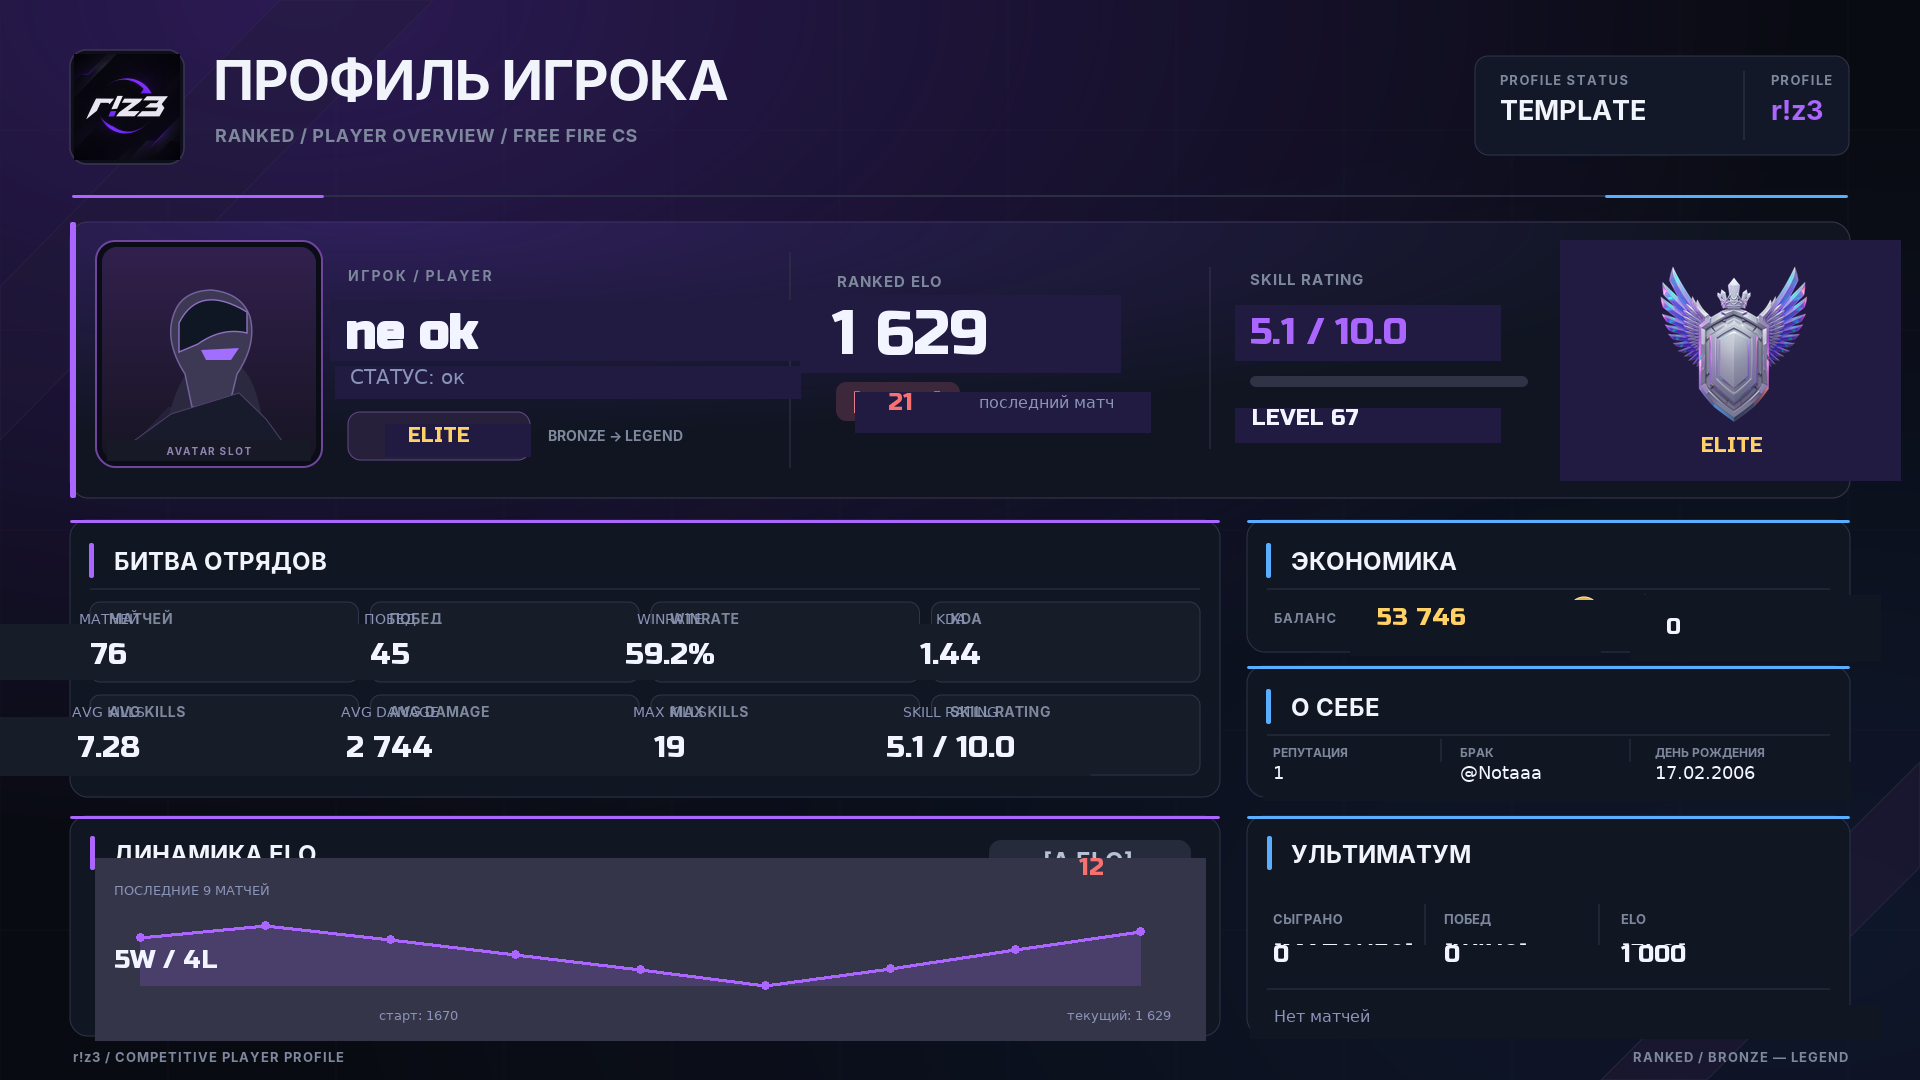
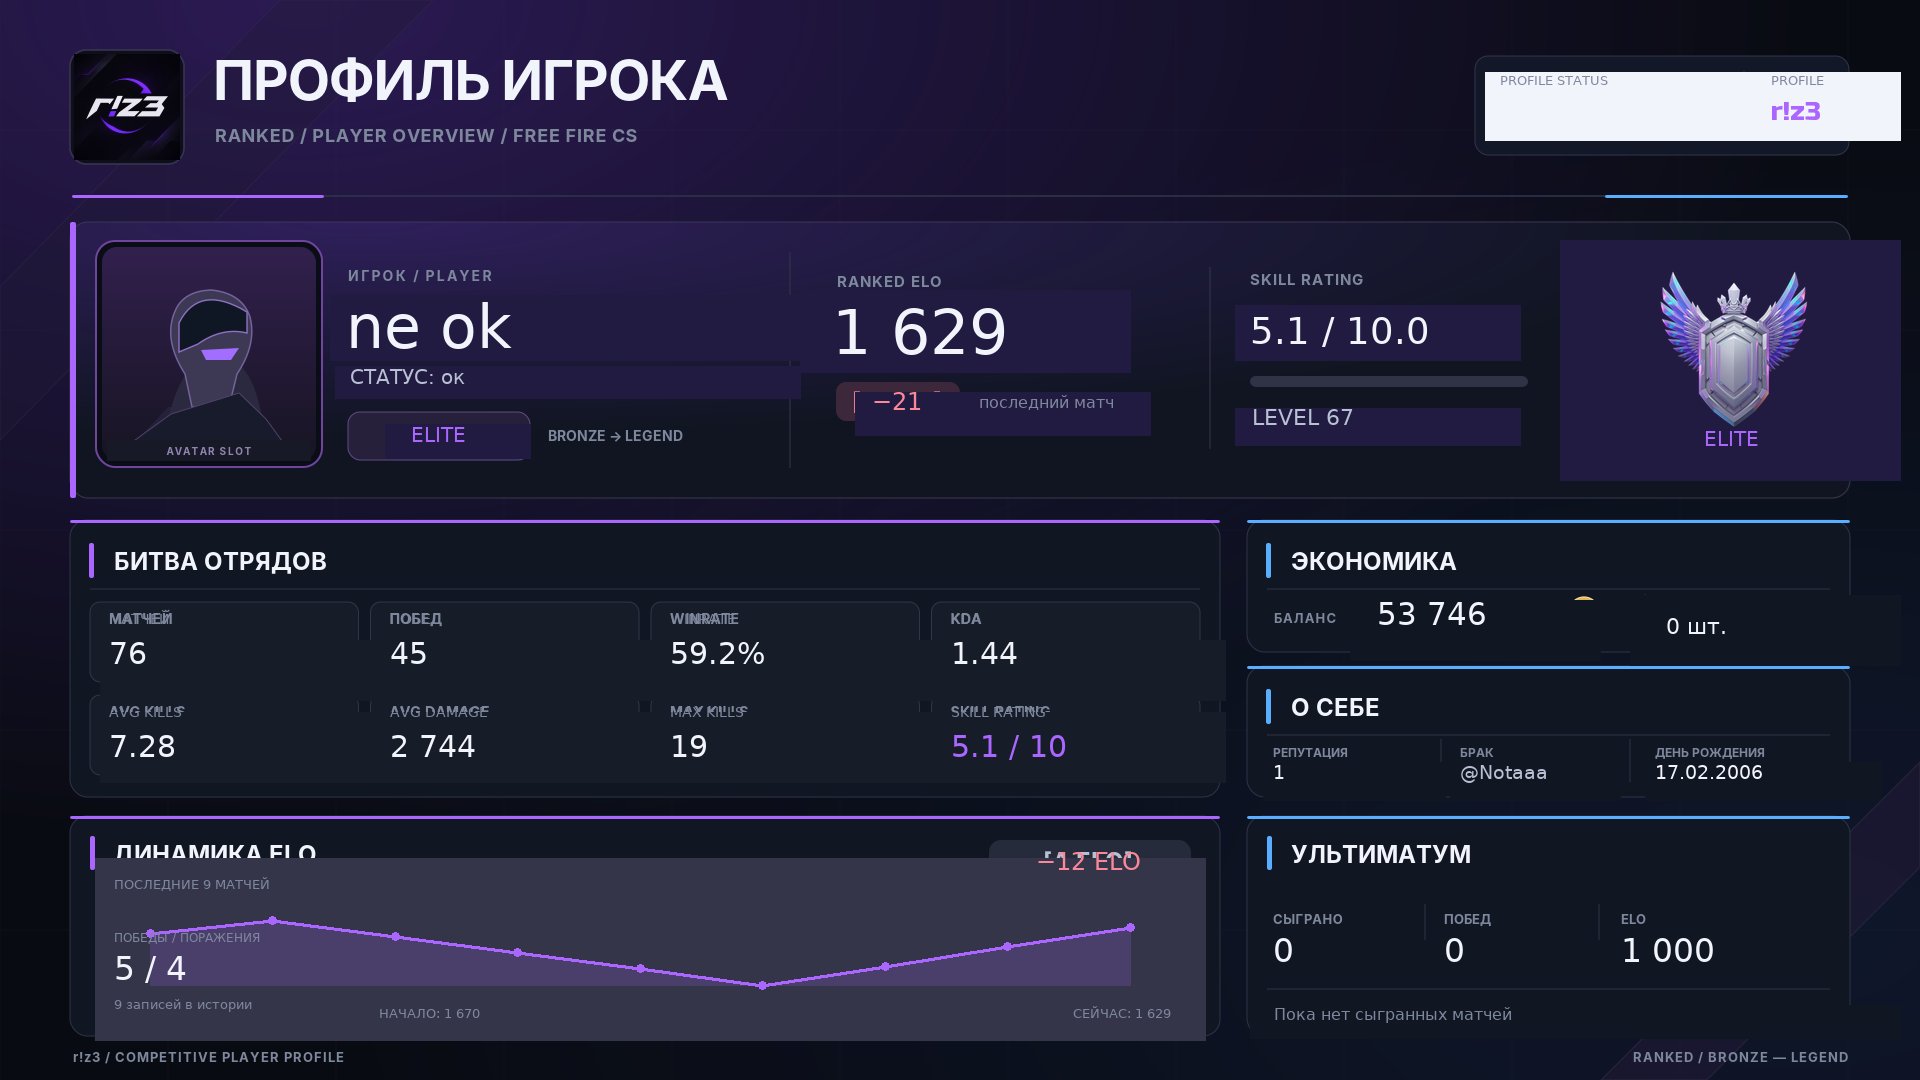
Fix profile card layout: match example SVG coordinates/styles
- Squad stat values left-aligned at label x (were centered -> drift)
- Correct font sizes (username 60, balance 31, ult values 33)
- Colors per example: rank/tier violet, SR white, delta #FA8899/green
- Chart block rewritten: W/L labels, НАЧАЛО/СЕЙЧАС axis, "N записей"
- Header right block, "N шт." items suffix, ult zero-state text

Generated with [Devin](https://devin.ai)

diff --git a/utils/profile_renderer.py b/utils/profile_renderer.py
@@ -2,7 +2,7 @@
 
 Использует чистый template PNG как подложку: динамические области
 затираются цветом панели, поверх рисуются актуальные данные.
-Все координаты соответствуют riz3_player_profile_template.svg.
+Все координаты/якоря/кегли соответствуют riz3_player_profile_example.svg.
 """
 
 from __future__ import annotations
@@ -22,14 +22,13 @@ FONTS_DIR = ASSETS_DIR / "fonts"
 
 CARD_RENDER_SEM = asyncio.Semaphore(2)
 
-# Цвета дизайна
-C_TEXT = (242, 244, 255)
-C_MUTED = (138, 147, 184)
-C_VIOLET = (170, 102, 255)
+# Цвета из example.svg
+C_TEXT = (242, 244, 251)     # #F2F4FB
+C_MUTED = (126, 136, 157)   # #7E889D
+C_SOFT = (184, 193, 211)    # #B8C1D3
+C_VIOLET = (170, 102, 255)  # #AA66FF
+C_DELTA_NEG = (250, 136, 153)  # #FA8899
 C_GREEN = (74, 222, 128)
-C_RED = (248, 113, 113)
-C_GOLD = (255, 209, 102)
-C_PANEL_TOP = None  # сэмплируется из template
 
 _font_cache: dict[tuple[str, int], ImageFont.FreeTypeFont] = {}
 _base_cache: Image.Image | None = None
@@ -53,32 +52,27 @@ def _base() -> Image.Image:
     return _base_cache.copy()
 
 
-def _panel_color(img: Image.Image, x: int, y: int) -> tuple[int, int, int, int]:
-    return img.getpixel((x, y))
-
-
 def _erase(img: Image.Image, color, x1, y1, x2, y2) -> None:
     ImageDraw.Draw(img).rectangle([x1, y1, x2, y2], fill=color)
 
 
 def _text(draw: ImageDraw.ImageDraw, xy, s: str, size: int,
-          color=C_TEXT, anchor="ls", bold=False, stroke: int = 0) -> None:
+          color=C_TEXT, anchor="ls", bold=False) -> None:
+    """anchor — PIL-якорь; 's' = baseline (как y в SVG)."""
     font = _font(size, bold)
-    draw.text(xy, s, font=font, fill=color, anchor=anchor,
-              stroke_width=stroke, stroke_fill=color)
+    draw.text(xy, s, font=font, fill=color, anchor=anchor)
 
 
-def _fmt(n: float) -> str:
-    """Формат числа с разделителем тысяч."""
-    if isinstance(n, float):
-        s = f"{n:.2f}".rstrip("0").rstrip(".")
-        return s
-    return f"{int(n):,}".replace(",", " ")
+def _fmt(n) -> str:
+    """Целое число с разделителем тысяч пробелом."""
+    try:
+        return f"{int(round(float(n))):,}".replace(",", " ")
+    except (TypeError, ValueError):
+        return "0"
 
 
 def _fit_text(draw, s: str, max_w: int, size: int, bold=False,
               min_size: int = 14) -> tuple[str, int]:
-    """Ужать текст до max_w, уменьшая кегль."""
     font = _font(size, bold)
     while size > min_size and draw.textlength(s, font=font) > max_w:
         size -= 2
@@ -97,50 +91,54 @@ def render_profile_png(data: dict, avatar_png: bytes | None = None,
     draw = ImageDraw.Draw(img)
 
     # --- Цвета панелей (сэмпл из template) ---
-    c_top = _panel_color(img, 700, 300)
-    c_stats = _panel_color(img, 600, 620)
-    c_econ = _panel_color(img, 1400, 600)
-    c_about = _panel_color(img, 1400, 720)
-    c_chart = _panel_color(img, 600, 950)
-    c_ult = _panel_color(img, 1400, 950)
+    c_top = img.getpixel((700, 300))
+    c_head = img.getpixel((1600, 100))
+    c_stats = img.getpixel((600, 620))
+    c_econ = img.getpixel((1400, 600))
+    c_about = img.getpixel((1400, 720))
+    c_chart = img.getpixel((600, 950))
+    c_ult = img.getpixel((1400, 950))
+
+    # ============ ШАПКА (справа) ============
+    _erase(img, c_head, 1485, 72, 1900, 140)
+    _text(draw, (1500, 85), "PROFILE STATUS", 13, C_MUTED)
+    _text(draw, (1500, 120), "ACTIVE PLAYER", 27, C_TEXT, bold=True)
+    _text(draw, (1771, 85), "PROFILE", 13, C_MUTED)
+    _text(draw, (1771, 120), "r!z3", 27, C_VIOLET, bold=True)
 
     # ============ ВЕРХНЯЯ ПАНЕЛЬ ============
-    # Никнейм
-    _erase(img, c_top, 330, 300, 980, 360)
+    # Никнейм (fs60 в example)
+    _erase(img, c_top, 330, 295, 1100, 360)
     name = data.get("name") or "Игрок"
-    nstr, nsize = _fit_text(draw, name, 620, 48, bold=True, min_size=24)
-    _text(draw, (346, 348), nstr, nsize, C_TEXT, bold=True, stroke=1)
+    nstr, nsize = _fit_text(draw, name, 720, 60, min_size=26)
+    _text(draw, (346, 348), nstr, nsize, C_TEXT)
 
     # Статус
     _erase(img, c_top, 335, 366, 800, 398)
-    status = data.get("status") or "ок"
-    _text(draw, (350, 384), f"СТАТУС: {status}", 20, C_MUTED)
+    _text(draw, (350, 384), f"СТАТУС: {data.get('status') or 'ок'}", 20, C_SOFT)
 
-    # Ранг (имя) — узкая зона, чтобы не затереть подпись "BRONZE → LEGEND"
-    _erase(img, c_top, 385, 424, 530, 456)
-    rank_name = data.get("rank_name") or "Bronze"
-    _text(draw, (439, 442), rank_name.upper(), 20, C_GOLD, anchor="ms",
-          bold=True)
+    # Ранг — violet, по центру x=439 (baseline)
+    _erase(img, c_top, 385, 424, 530, 458)
+    _text(draw, (439, 442), (data.get("rank_name") or "BRONZE").upper(),
+          20, C_VIOLET, anchor="ms")
 
-    # ELO
-    _erase(img, c_top, 800, 295, 1120, 372)
-    _text(draw, (832, 354), _fmt(data.get("elo", 1000)), 62, C_TEXT, bold=True)
+    # RANKED ELO
+    _erase(img, c_top, 800, 290, 1130, 372)
+    _text(draw, (832, 354), _fmt(data.get("elo", 1000)), 62, C_TEXT)
     # Δ ELO последнего матча
-    _erase(img, c_top, 855, 392, 1150, 432)
+    _erase(img, c_top, 855, 392, 1150, 435)
     delta = data.get("last_elo_change", 0)
-    dcolor = C_GREEN if delta >= 0 else C_RED
+    dcolor = C_GREEN if delta >= 0 else C_DELTA_NEG
     dsign = "+" if delta >= 0 else "−"
-    _text(draw, (897, 410), f"{dsign}{abs(delta)}", 24, dcolor, anchor="ms",
-          bold=True)
+    _text(draw, (897, 410), f"{dsign}{abs(delta)}", 24, dcolor, anchor="ms")
     _text(draw, (979, 408), "последний матч", 16, C_MUTED)
 
     # Skill Rating + Level
-    _erase(img, c_top, 1235, 305, 1500, 360)
+    _erase(img, c_top, 1235, 305, 1520, 360)
     sr = data.get("skill_rating", 0.0)
-    _text(draw, (1250, 344), f"{sr:.1f} / 10.0", 37, C_VIOLET, bold=True)
-    _erase(img, c_top, 1235, 408, 1500, 442)
-    _text(draw, (1252, 425), f"LEVEL {data.get('level', 1)}", 22, C_TEXT,
-          bold=True)
+    _text(draw, (1250, 344), f"{sr:.1f} / 10.0", 37, C_TEXT)
+    _erase(img, c_top, 1235, 408, 1520, 445)
+    _text(draw, (1252, 425), f"LEVEL {data.get('level', 1)}", 22, C_SOFT)
 
     # Бейдж ранга + тир
     _erase(img, c_top, 1560, 240, 1900, 480)
@@ -148,92 +146,95 @@ def render_profile_png(data: dict, avatar_png: bytes | None = None,
         try:
             badge = Image.open(io.BytesIO(badge_png)).convert("RGBA")
             badge.thumbnail((210, 210), Image.LANCZOS)
-            bx = 1734 - badge.width // 2
-            by = 345 - badge.height // 2
-            img.paste(badge, (bx, by), badge)
+            img.paste(badge, (1734 - badge.width // 2,
+                              350 - badge.height // 2), badge)
         except Exception:
             logger.warning("Rank badge paste failed")
-    _text(draw, (1732, 452), rank_name.upper(), 20, C_GOLD, anchor="ms",
-          bold=True)
+    _text(draw, (1732, 446), (data.get("rank_name") or "").upper(),
+          20, C_VIOLET, anchor="ms")
 
     # ============ БИТВА ОТРЯДОВ ============
-    cols_x = [109, 389.5, 670, 950.5]
-    labels1 = ["МАТЧЕЙ", "ПОБЕД", "WINRATE", "KDA"]
-    labels2 = ["AVG KILLS", "AVG DAMAGE", "MAX KILLS", "SKILL RATING"]
-    vals1 = [
-        _fmt(data.get("matches", 0)),
-        _fmt(data.get("wins", 0)),
-        f"{data.get('winrate', 0.0):.1f}%",
-        f"{data.get('kda', 0.0):.2f}",
+    # Значения — LEFT-aligned по x лейбла (как в example), fs30
+    squad_cols = [
+        (109, "МАТЧЕЙ", _fmt(data.get("matches", 0))),
+        (389.5, "ПОБЕД", _fmt(data.get("wins", 0))),
+        (670, "WINRATE", f"{data.get('winrate', 0.0):.1f}%"),
+        (950.5, "KDA", f"{data.get('kda', 0.0):.2f}"),
     ]
-    vals2 = [
-        f"{data.get('avg_kills', 0.0):.2f}",
-        _fmt(data.get("avg_damage", 0)),
-        _fmt(data.get("max_kills", 0)),
-        f"{sr:.1f} / 10.0",
+    squad_cols2 = [
+        (109, "AVG KILLS", f"{data.get('avg_kills', 0.0):.2f}"),
+        (389.5, "AVG DAMAGE", _fmt(data.get("avg_damage", 0))),
+        (670, "MAX KILLS", _fmt(data.get("max_kills", 0))),
+        (950.5, "SKILL RATING", f"{sr:.1f} / 10"),
     ]
-    for cx, lab, val, vy in zip(cols_x, labels1, vals1, [664] * 4):
-        _erase(img, c_stats, cx - 140, vy - 40, cx + 140, vy + 15)
-        _text(draw, (cx, 624), lab, 14, C_MUTED, anchor="ms")
-        _text(draw, (cx, vy), val, 30, C_TEXT, anchor="ms", bold=True)
-    for cx, lab, val in zip(cols_x, labels2, vals2):
-        _erase(img, c_stats, cx - 140, 717, cx + 140, 775)
-        _text(draw, (cx, 717), lab, 14, C_MUTED, anchor="ms")
-        _text(draw, (cx, 757), val, 30, C_TEXT, anchor="ms", bold=True)
+    bounds = [(100, 640, 380, 700), (380, 640, 660, 700),
+              (655, 640, 940, 700), (940, 640, 1225, 700),
+              (100, 712, 380, 782), (380, 712, 660, 782),
+              (655, 712, 940, 782), (940, 712, 1225, 782)]
+    for (x1, y1, x2, y2), (cx, lab, val) in zip(bounds[:4], squad_cols):
+        _erase(img, c_stats, x1, y1, x2, y2)
+        _text(draw, (cx, 624), lab, 14, C_MUTED)
+        color = C_VIOLET if lab == "SKILL RATING" else C_TEXT
+        _text(draw, (cx, 664), val, 30, color)
+    for (x1, y1, x2, y2), (cx, lab, val) in zip(bounds[4:], squad_cols2):
+        _erase(img, c_stats, x1, y1, x2, y2)
+        _text(draw, (cx, 717), lab, 14, C_MUTED)
+        color = C_VIOLET if lab == "SKILL RATING" else C_TEXT
+        _text(draw, (cx, 757), val, 30, color)
 
     # ============ ЭКОНОМИКА ============
-    _erase(img, c_econ, 1350, 600, 1600, 655)
-    _text(draw, (1377, 625), _fmt(data.get("balance", 0)), 25, C_GOLD,
-          bold=True)
-    _erase(img, c_econ, 1630, 595, 1880, 660)
-    _text(draw, (1666, 634), _fmt(data.get("items", 0)), 22, C_TEXT,
-          bold=True)
+    _erase(img, c_econ, 1350, 600, 1600, 660)
+    _text(draw, (1377, 625), _fmt(data.get("balance", 0)), 31, C_TEXT)
+    _erase(img, c_econ, 1630, 595, 1900, 665)
+    _text(draw, (1666, 634), f"{_fmt(data.get('items', 0))} шт.", 22, C_TEXT)
 
     # ============ О СЕБЕ ============
     about = [
-        (1273, "РЕПУТАЦИЯ", _fmt(data.get("reputation", 0))),
-        (1460, "БРАК", data.get("partner") or "—"),
-        (1655, "ДЕНЬ РОЖДЕНИЯ", data.get("birthday") or "—"),
+        (1273, data.get("reputation", 0), C_TEXT),
+        (1460, data.get("partner") or "—", C_SOFT),
+        (1655, data.get("birthday") or "—", C_TEXT),
     ]
-    for x, lab, val in about:
-        _erase(img, c_about, x - 10, 762, x + 195, 800)
-        _text(draw, (x, 779), val, 18, C_TEXT)
+    for i, (x, val, color) in enumerate(about):
+        x2 = [1445, 1620, 1880][i]
+        _erase(img, c_about, x - 10, 762, x2, 800)
+        vstr, vsize = _fit_text(draw, str(val), x2 - x - 10, 19,
+                                min_size=12)
+        _text(draw, (x, 779), vstr, vsize, color)
 
     # ============ ДИНАМИКА ELO ============
     _erase(img, c_chart, 95, 858, 1205, 1040)
-    _text(draw, (114, 895), f"ПОСЛЕДНИЕ {data.get('hist_count', 0)} МАТЧЕЙ",
-          13, C_MUTED)
+    _text(draw, (114, 889),
+          f"ПОСЛЕДНИЕ {data.get('hist_count', 0)} МАТЧЕЙ", 13, C_MUTED)
     total_delta = data.get("chart_delta", 0)
-    td_color = C_GREEN if total_delta >= 0 else C_RED
-    _text(draw, (1088, 875),
-          f"{'+' if total_delta >= 0 else '−'}{abs(total_delta)}",
-          24, td_color, anchor="ms", bold=True)
+    td_color = C_GREEN if total_delta >= 0 else C_DELTA_NEG
+    tdsign = "+" if total_delta >= 0 else "−"
+    _text(draw, (1088, 870), f"{tdsign}{abs(total_delta)} ELO", 24,
+          td_color, anchor="ms")
 
-    # График: область ~x130-1150, y915-985
+    # График: область ~x140-1140, y915-990
     hist = data.get("elo_history") or []  # хронологический список дельт
-    px0, px1, py0, py1 = 140, 1140, 925, 985
-    if len(hist) >= 1:
+    px0, px1, py0, py1 = 150, 1130, 920, 985
+    if hist:
         cum = []
         s = 0
         for d in hist:
             s += d
             cum.append(s)
         if len(cum) == 1:
-            cum = [cum[0], cum[0]]
+            cum.append(cum[0])
         lo, hi = min(cum), max(cum)
         span = (hi - lo) or 1
-        pts = []
         n = len(cum)
-        for i, v in enumerate(cum):
-            x = px0 + (px1 - px0) * i / (n - 1)
-            y = py1 - (py1 - py0) * (v - lo) / span
-            pts.append((x, y))
-        # область под линией — через overlay для прозрачности
+        pts = [
+            (px0 + (px1 - px0) * i / (n - 1),
+             py1 - (py1 - py0) * (v - lo) / span)
+            for i, v in enumerate(cum)
+        ]
         if len(pts) >= 2:
             overlay = Image.new("RGBA", img.size, (0, 0, 0, 0))
             od = ImageDraw.Draw(overlay)
             area = pts + [(pts[-1][0], py1), (pts[0][0], py1)]
-            od.polygon(area, fill=(170, 102, 255, 45))
+            od.polygon(area, fill=(*C_VIOLET, 45))
             od.line(pts, fill=(*C_VIOLET, 255), width=4, joint="curve")
             for x, y in pts:
                 od.ellipse([x - 4, y - 4, x + 4, y + 4],
@@ -246,34 +247,44 @@ def render_profile_png(data: dict, avatar_png: bytes | None = None,
         _text(draw, ((px0 + px1) / 2, (py0 + py1) / 2), "НЕТ ДАННЫХ",
               20, C_MUTED, anchor="ms")
 
-    w = data.get("hist_wins", 0)
-    l = data.get("hist_losses", 0)
-    _text(draw, (114, 968), f"{w}W / {l}L", 26, C_TEXT, bold=True)
-    _text(draw, (379, 1020),
-          f"старт: {data.get('hist_start_elo', data.get('elo', 1000))}",
+    # W/L блок (как в example: лейбл / значение / подпись)
+    _text(draw, (114, 942), "ПОБЕДЫ / ПОРАЖЕНИЯ", 12, C_MUTED)
+    _text(draw, (114, 980),
+          f"{data.get('hist_wins', 0)} / {data.get('hist_losses', 0)}",
+          33, C_TEXT)
+    _text(draw, (114, 1009),
+          f"{data.get('hist_count', 0)} записей в истории", 13, C_MUTED)
+
+    _text(draw, (379, 1018),
+          f"НАЧАЛО: {_fmt(data.get('hist_start_elo', data.get('elo', 1000)))}",
           13, C_MUTED)
-    _text(draw, (1171, 1020), f"текущий: {_fmt(data.get('elo', 1000))}",
+    _text(draw, (1171, 1018), f"СЕЙЧАС: {_fmt(data.get('elo', 1000))}",
           13, C_MUTED, anchor="rs")
 
     # ============ УЛЬТИМАТУМ ============
     ult = [
-        (1273, "СЫГРАНО", _fmt(data.get("ult_matches", 0))),
-        (1444, "ПОБЕД", _fmt(data.get("ult_wins", 0))),
-        (1621, "ELO", _fmt(data.get("ult_elo", 1000))),
+        (1273, _fmt(data.get("ult_matches", 0))),
+        (1444, _fmt(data.get("ult_wins", 0))),
+        (1621, _fmt(data.get("ult_elo", 1000))),
     ]
-    for x, lab, val in ult:
-        _erase(img, c_ult, x - 10, 945, x + 175, 985)
-        _text(draw, (x, 962), val, 24, C_TEXT, bold=True)
-    _erase(img, c_ult, 1250, 1005, 1880, 1038)
-    _text(draw, (1274, 1022), data.get("ult_status") or "—", 16, C_MUTED)
+    for x, val in ult:
+        _erase(img, c_ult, x - 10, 940, x + 175, 985)
+        _text(draw, (x, 962), val, 33, C_TEXT)
+    _erase(img, c_ult, 1250, 1005, 1900, 1038)
+    _text(draw, (1274, 1020),
+          data.get("ult_status") or "Пока нет сыгранных матчей", 16, C_MUTED)
 
     # ============ АВАТАР ============
     if avatar_png:
         try:
             av = Image.open(io.BytesIO(avatar_png)).convert("RGBA")
-            av = ImageOps_fit_square(av)
+            w, h = av.size
+            side = min(w, h)
+            av = av.crop(((w - side) // 2, (h - side) // 2,
+                          (w + side) // 2, (h + side) // 2))
             av = av.resize((214, 214), Image.LANCZOS)
-            mask = _circle_mask(214)
+            mask = Image.new("L", (214, 214), 0)
+            ImageDraw.Draw(mask).ellipse([0, 0, 213, 213], fill=255)
             img.paste(av, (102, 247), mask)
         except Exception:
             logger.warning("Avatar paste failed")
@@ -281,22 +292,6 @@ def render_profile_png(data: dict, avatar_png: bytes | None = None,
     out = io.BytesIO()
     img.convert("RGB").save(out, format="PNG", optimize=True)
     return out.getvalue()
-
-
-def ImageOps_fit_square(im: Image.Image) -> Image.Image:
-    """Центральный кроп до квадрата."""
-    w, h = im.size
-    side = min(w, h)
-    left = (w - side) // 2
-    top = (h - side) // 2
-    return im.crop((left, top, left + side, top + side))
-
-
-def _circle_mask(size: int):
-    mask = Image.new("L", (size, size), 0)
-    d = ImageDraw.Draw(mask)
-    d.ellipse([0, 0, size - 1, size - 1], fill=255)
-    return mask
 
 
 async def render_profile_png_async(data: dict,

diff --git a/services/profile_card.py b/services/profile_card.py
@@ -133,7 +133,7 @@ async def collect_profile_data(guild: discord.Guild,
         "ult_elo": ult_elo,
         "ult_status": (
             f"Winrate {ult_wins / ult_matches * 100:.0f}%"
-            if ult_matches else "Нет матчей"
+            if ult_matches else "Пока нет сыгранных матчей"
         ),
         "_badge_level": stats.level,
     }
